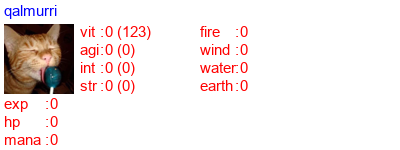
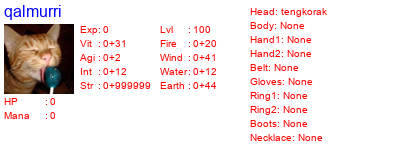
Add files via upload

diff --git a/cogs/commands/profile.py b/cogs/commands/profile.py
@@ -61,8 +61,19 @@ class profile(commands.Cog):
                     check = player.get("game", {}).get("rpg", {})
                     if check is not None and check :
                         with Image.open("assets/rpg/profile/default.png") as a:
-                            avatar_url = interaction.user.display_avatar
+                            avatar = interaction.user.display_avatar
                             username = interaction.user.name
+
+                            usehead = player.get("game", {}).get("rpg", {}).get("use", {}).get("head", {}).get("name", None)
+                            usebody = player.get("game", {}).get("rpg", {}).get("use", {}).get("body", {}).get("name", None)
+                            usehand1 = player.get("game", {}).get("rpg", {}).get("use", {}).get("hand1", {}).get("name", None)
+                            usehand2 = player.get("game", {}).get("rpg", {}).get("use", {}).get("hand2", {}).get("name", None)
+                            usebelt = player.get("game", {}).get("rpg", {}).get("use", {}).get("belt", {}).get("name", None)
+                            usegloves = player.get("game", {}).get("rpg", {}).get("use", {}).get("gloves", {}).get("name", None)
+                            usering1 = player.get("game", {}).get("rpg", {}).get("use", {}).get("ring1", {}).get("name", None)
+                            usering2 = player.get("game", {}).get("rpg", {}).get("use", {}).get("ring2", {}).get("name", None)
+                            useboots = player.get("game", {}).get("rpg", {}).get("use", {}).get("boots", {}).get("name", None)
+                            usenecklace = player.get("game", {}).get("rpg", {}).get("use", {}).get("necklace", {}).get("name", None)
 
                             bar = player.get("game", {}).get("rpg", {}).get("bar", {})
                             exp = bar.get("exp", {})
@@ -75,43 +86,142 @@ class profile(commands.Cog):
                             inteligent = stats.get("int", {})
                             strength = stats.get("str", {})
 
-                            head = player.get("game", {}).get("rpg", {}).get("use", {}).get("head", {})
-                            headstr = head.get("str", 0)
-                            headvit = head.get("vit", 0)
-                            headint = head.get("int", 0)
-                            headagi = head.get("agi", 0)
-
-                            statsvitality = headvit + 123
-                            statsagility = headagi
-                            statsinteligent = headint
-                            statsstrength = headstr
-
                             attribut = player.get("game", {}).get("rpg", {}).get("attribut", {})
                             fire = attribut.get("fire", {})
                             water = attribut.get("water", {})
                             earth = attribut.get("earth", {})
                             wind = attribut.get("wind", {})
 
-                            c = ImageFont.truetype("arial.ttf", 15)
+                            head = player.get("game", {}).get("rpg", {}).get("use", {}).get("head", {})
+                            headstr = head.get("str", 0)
+                            headvit = head.get("vit", 0)
+                            headint = head.get("int", 0)
+                            headagi = head.get("agi", 0)
+                            headfire = head.get("fire", 0)
+                            headwater = head.get("water", 0)
+                            headwind = head.get("wind", 0)
+                            headearth = head.get("earth", 0)
+
+                            body = player.get("game", {}).get("rpg", {}).get("use", {}).get("body", {})
+                            bodystr = body.get("str", 0)
+                            bodyvit = body.get("vit", 0)
+                            bodyint = body.get("int", 0)
+                            bodyagi = body.get("agi", 0)
+                            bodyfire = body.get("fire", 0)
+                            bodywater = body.get("water", 0)
+                            bodywind = body.get("wind", 0)
+                            bodyearth = body.get("earth", 0)
+
+                            hand1 = player.get("game", {}).get("rpg", {}).get("use", {}).get("hand1", {})
+                            hand1str = hand1.get("str", 0)
+                            hand1vit = hand1.get("vit", 0)
+                            hand1int = hand1.get("int", 0)
+                            hand1agi = hand1.get("agi", 0)
+                            hand1fire = hand1.get("fire", 0)
+                            hand1water = hand1.get("water", 0)
+                            hand1wind = hand1.get("wind", 0)
+                            hand1earth = hand1.get("earth", 0)
+
+                            hand2 = player.get("game", {}).get("rpg", {}).get("use", {}).get("hand2", {})
+                            hand2str = hand2.get("str", 0)
+                            hand2vit = hand2.get("vit", 0)
+                            hand2int = hand2.get("int", 0)
+                            hand2agi = hand2.get("agi", 0)
+                            hand2fire = hand2.get("fire", 0)
+                            hand2water = hand2.get("water", 0)
+                            hand2wind = hand2.get("wind", 0)
+                            hand2earth = hand2.get("earth", 0)
+
+                            belt = player.get("game", {}).get("rpg", {}).get("use", {}).get("belt", {})
+                            beltstr = belt.get("str", 0)
+                            beltvit = belt.get("vit", 0)
+                            beltint = belt.get("int", 0)
+                            beltagi = belt.get("agi", 0)
+                            beltfire = belt.get("fire", 0)
+                            beltwater = belt.get("water", 0)
+                            beltwind = belt.get("wind", 0)
+                            beltearth = belt.get("earth", 0)
+
+                            gloves = player.get("game", {}).get("rpg", {}).get("use", {}).get("belt", {})
+                            glovesstr = gloves.get("str", 0)
+                            glovesvit = gloves.get("vit", 0)
+                            glovesint = gloves.get("int", 0)
+                            glovesagi = gloves.get("agi", 0)
+                            glovesfire = gloves.get("fire", 0)
+                            gloveswater = gloves.get("water", 0)
+                            gloveswind = gloves.get("wind", 0)
+                            glovesearth = gloves.get("earth", 0)
+
+                            ring1 = player.get("game", {}).get("rpg", {}).get("use", {}).get("ring1", {})
+                            ring1str = ring1.get("str", 0)
+                            ring1vit = ring1.get("vit", 0)
+                            ring1int = ring1.get("int", 0)
+                            ring1agi = ring1.get("agi", 0)
+                            ring1fire = ring1.get("fire", 0)
+                            ring1water = ring1.get("water", 0)
+                            ring1wind = ring1.get("wind", 0)
+                            ring1earth = ring1.get("earth", 0)
+
+                            ring2 = player.get("game", {}).get("rpg", {}).get("use", {}).get("ring2", {})
+                            ring2str = ring2.get("str", 0)
+                            ring2vit = ring2.get("vit", 0)
+                            ring2int = ring2.get("int", 0)
+                            ring2agi = ring2.get("agi", 0)
+                            ring2fire = ring2.get("fire", 0)
+                            ring2water = ring2.get("water", 0)
+                            ring2wind = ring2.get("wind", 0)
+                            ring2earth = ring2.get("earth", 0)
+
+                            boots = player.get("game", {}).get("rpg", {}).get("use", {}).get("boots", {})
+                            bootsstr = boots.get("str", 0)
+                            bootsvit = boots.get("vit", 0)
+                            bootsint = boots.get("int", 0)
+                            bootsagi = boots.get("agi", 0)
+                            bootsfire = boots.get("fire", 0)
+                            bootswater = boots.get("water", 0)
+                            bootswind = boots.get("wind", 0)
+                            bootsearth = boots.get("earth", 0)
+
+                            necklace = player.get("game", {}).get("rpg", {}).get("use", {}).get("necklace", {})
+                            necklacestr = necklace.get("str", 0)
+                            necklacevit = necklace.get("vit", 0)
+                            necklaceint = necklace.get("int", 0)
+                            necklaceagi = necklace.get("agi", 0)
+                            necklacefire = necklace.get("fire", 0)
+                            necklacewater = necklace.get("water", 0)
+                            necklacewind = necklace.get("wind", 0)
+                            necklaceearth = necklace.get("earth", 0)
+
+                            statsvitality = headvit + bodyvit + hand1vit + hand2vit + beltvit + glovesvit + ring1vit + ring2vit + bootsvit + necklacevit
+                            statsagility = headagi + bodyagi + hand1agi + hand2agi + beltagi + glovesagi + ring1agi + ring2agi + bootsagi + necklaceagi
+                            statsinteligent = headint + bodyint + hand1int + hand2int + beltint + glovesint + ring1int + ring2int + bootsint + necklaceint
+                            statsstrength = headstr + bodystr + hand1str + hand2str + beltstr + glovesstr + ring1str + ring2str + bootsstr + necklaceagi
+                            statsfire = headfire + bodyfire + hand1fire + hand2fire + beltfire + glovesfire + ring1fire + ring2fire + bootsfire + necklacefire
+                            statswater = headwater + bodywater + hand1water + hand2water + beltwater + gloveswater + ring1water + ring2water + bootswater + necklacewater
+                            statswind = headwind + bodywind + hand1wind + hand2wind + beltwind + gloveswind + ring1wind + ring2wind + bootswind + necklacewind
+                            statsearth = headearth + bodyearth +hand1earth + hand2earth + beltearth + glovesearth + ring1earth + ring2earth + bootsearth + necklaceearth
+
+                            c = ImageFont.truetype("arial.ttf", 10)
+                            e = ImageFont.truetype("arial.ttf", 16)
+                            d = Image.open(requests.get(avatar, stream=True).raw)
                             b = ImageDraw.Draw(a)
-                            avatar = Image.open(requests.get(avatar_url, stream=True).raw)
-                            avatar_image = avatar.resize((70, 70))
-                            avatar_position = (4, 24)
                             
-                            a.paste(avatar_image, avatar_position)
+                            a.paste(d.resize((70, 70)), (4, 24))
 
-                            b.text((4, 2), username, font=c, fill="blue")
-                            b.text((80, 23), f"vit\nagi\nint\nstr", font=c, fill="red")
-                            b.text((100, 23), ":\n:\n:\n:", font=c, fill="red")
-                            b.text((105, 23), f"{vitality} ({statsvitality})\n{agility} ({statsagility})\n{inteligent} ({statsinteligent})\n{strength} ({statsstrength})", font=c, fill="red")
+                            b.text((4, 2), username, font=e, fill="blue")
+                            b.text((80, 23), f"Exp\nVit\nAgi\nInt\nStr", font=c, fill="red")
+                            b.text((98, 23), ":\n:\n:\n:\n:", font=c, fill="red")
+                            b.text((103, 23), f"{exp}\n{vitality}+{statsvitality}\n{agility}+{statsagility}\n{inteligent}+{statsinteligent}\n{strength}+{statsstrength}", font=c, fill="red")
 
-                            b.text((200, 23), f"fire\nwind\nwater\nearth", font=c, fill="red")
-                            b.text((235, 23), ":\n:\n:\n:", font=c, fill="red")
-                            b.text((240, 23), f"{fire}\n{wind}\n{water}\n{earth}", font=c, fill="red")
+                            b.text((160, 23), f"Lvl\nFire\nWind\nWater\nEarth", font=c, fill="red")
+                            b.text((188, 23), ":\n:\n:\n:\n:", font=c, fill="red")
+                            b.text((193, 23), f"100\n{fire}+{statsfire}\n{wind}+{statswind}\n{water}+{statswater}\n{earth}+{statsearth}", font=c, fill="red")
 
-                            b.text((4, 95), f"exp\nhp\nmana", font=c, fill="red")
-                            b.text((45, 95), ":\n:\n:\n:", font=c, fill="red")
-                            b.text((50, 95), f"{exp}\n{hp}\n{mana}", font=c, fill="red")
+                            b.text((4, 95), f"HP\nMana", font=c, fill="red")
+                            b.text((45, 95), ":\n:", font=c, fill="red")
+                            b.text((50, 95), f"{hp}\n{mana}", font=c, fill="red")
+
+                            b.text((250, 5), f"Head: {usehead}\nBody: {usebody}\nHand1: {usehand1}\nHand2: {usehand2}\nBelt: {usebelt}\nGloves: {usegloves}\nRing1: {usering1}\nRing2: {usering2}\nBoots: {useboots}\nNecklace: {usenecklace}", font=c, fill="red")
 
                             a.save(f"stats/rpg/profile/{interaction.guild.id}.png")
                             await interaction.response.send_message(file=discord.File(f"stats/rpg/profile/{interaction.guild.id}.png"))

diff --git a/rpg/commands/equip.py b/rpg/commands/equip.py
@@ -21,16 +21,17 @@ class equip(commands.Cog):
                     {
                         "$set": {
                             "game.rpg.use.head": {
-                                "item": "tengkorak",
-                                "str": 312,
+                                "id": 21,
+                                "name": "tengkorak",
+                                "class": "rare",
+                                "str": 999999,
                                 "vit": 31,
                                 "int": 12,
                                 "agi": 2,
-                                "fire": 100,
-                                "wind": 0,
-                                "water": 0,
-                                "earth": 0,
-                                    
+                                "fire": 20,
+                                "wind": 41,
+                                "water": 12,
+                                "earth": 44,
                                 }
                             }
                         }

diff --git a/cogs/commands/join.py b/cogs/commands/join.py
@@ -66,7 +66,7 @@ class join(commands.Cog):
                                         },
                                         "bag": {
                                             "coin": 0,
-                                            "items": None,
+                                            "items": {},
                                             },
                                         "use": {},
                                         "attribut": {

diff --git a/main.py b/main.py
@@ -12,8 +12,10 @@ async def on_ready():
 async def setup_hook() -> None:
     extensions = [
         'cogs.activity.message',
+
         'cogs.commands.profile',
         'cogs.commands.join',
+        
         'rpg.commands.equip'
         ]
     
